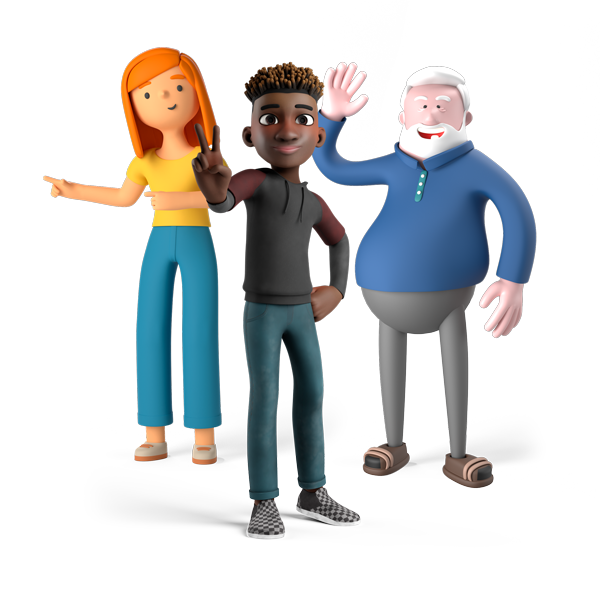
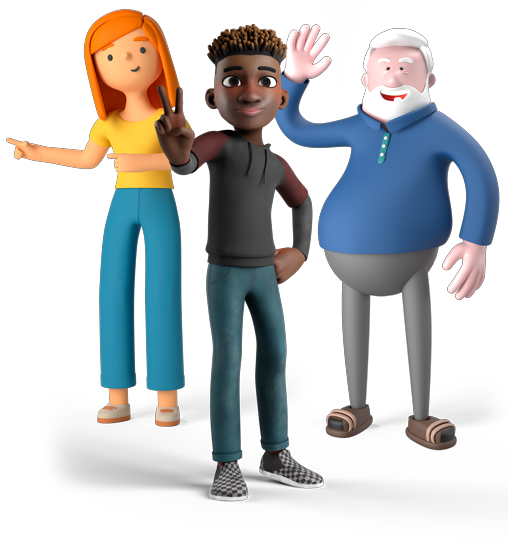
intoPage styled to be responsive

diff --git a/src/components/PageIntro/style.css b/src/components/PageIntro/style.css
@@ -2,16 +2,18 @@
   display: flex;
   flex-direction: column;
   align-items: center;
+  margin-top: 40px;
 }
 
 .intro__heading {
   font-size: 36px;
+  margin-bottom: 0;
 }
 
 .intro__subHeading {
   font-family: var(--font-primary);
   font-size: 20px;
-  margin: 15px 0;
+  margin: 5px 0 30px 0;
 }
 
 .intro__image {
@@ -23,4 +25,36 @@
 .intro__image img {
   width: 100%;
   max-width: 500px;
+}
+
+@media screen and (min-width: 850px) {
+  .intro {
+    flex-direction: row;
+    justify-content: center;
+    align-items: flex-start;
+
+  }
+
+  .intro__image {
+    flex-basis: 50%;
+    flex-shrink: 0;
+  }
+
+  .intro__text {
+    margin-top: 40px;
+  }
+
+  .intro__heading,
+  .intro__subHeading,
+  .intro__text {
+    text-align: left;
+  }
+
+  .intro__heading {
+    font-size: 65px;
+  }
+
+  .intro__subHeading {
+    font-size: 30px;
+  }
 }

diff --git a/src/global.css b/src/global.css
@@ -29,6 +29,7 @@ body {
 .content {
   max-width: 1200px;
   margin: 0 auto;
+  padding: 0 40px;
 }
 
 
@@ -49,7 +50,6 @@ h4 {
 
 main {
   margin: 0 auto;
-  padding: 70px 20px 0 20px;
   text-align: center;
 }
 

diff --git a/src/components/Menu/style.css b/src/components/Menu/style.css
@@ -16,7 +16,8 @@
   padding: 0px 30px;
   justify-content: space-between;
   align-items: center;
-
+  max-width: 1200px;
+  margin: 0 auto;
 }
 
 .menu__draver {
